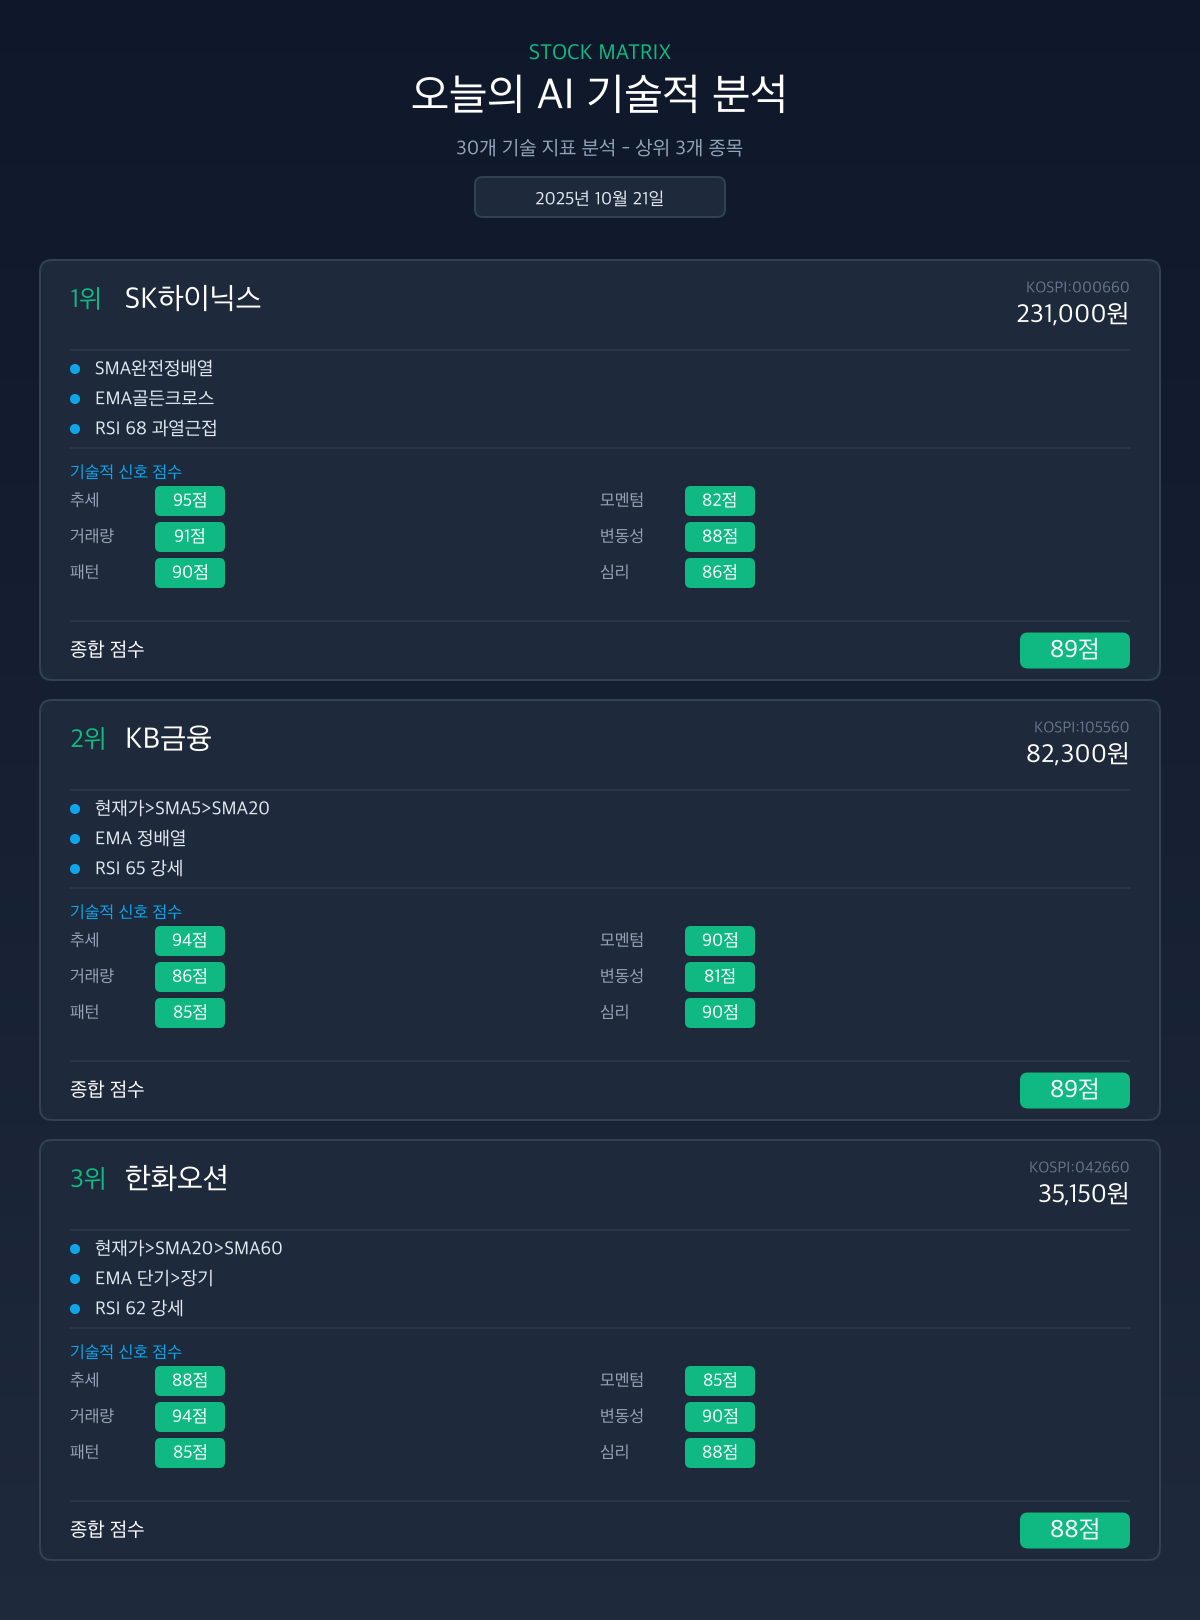
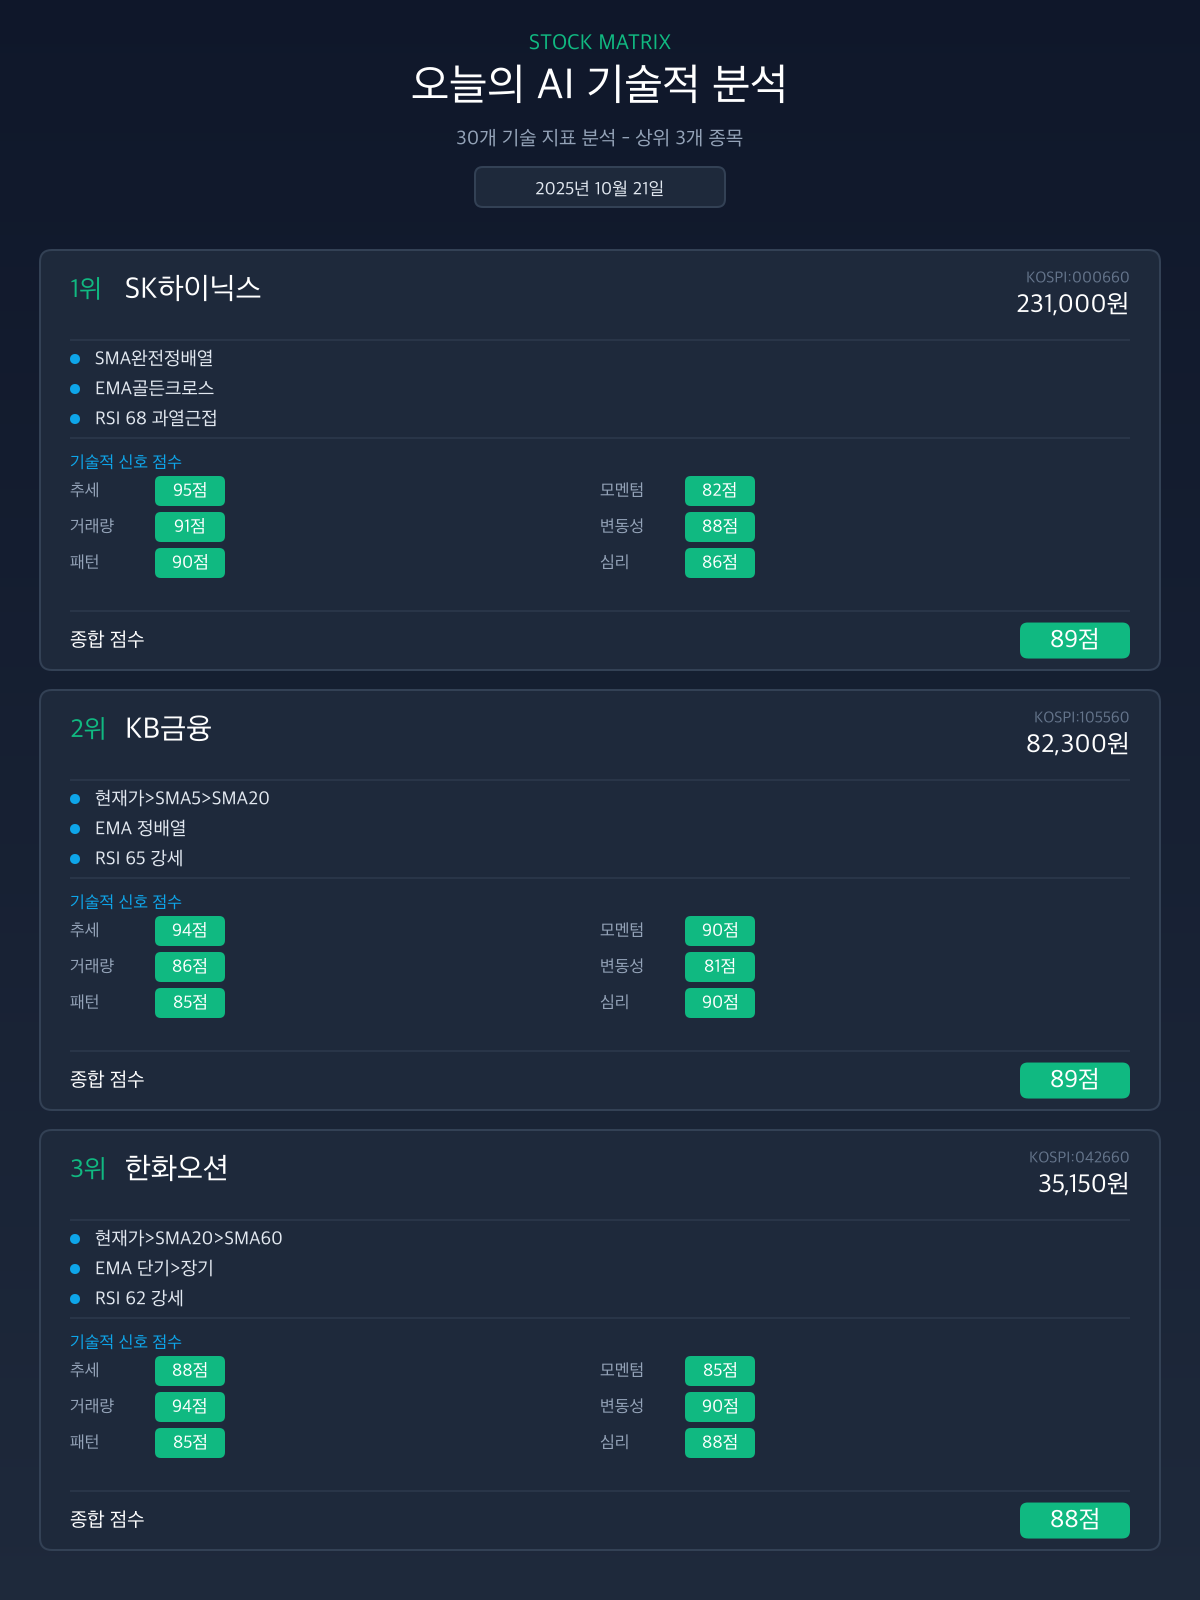
여백 수정

diff --git a/lib/text-to-image.ts b/lib/text-to-image.ts
@@ -45,7 +45,7 @@ export async function textToImage(jsonData: string): Promise<Buffer> {
   // 캔버스 크기 - 고정 높이로 레이아웃 시프트 제거
   const width = 1200;
   const cardHeight = 420; // 각 종목 카드 고정 높이 (450 → 420)
-  const margin = 40; // 상하단 여백 통일
+  const margin = 30; // 상하단 여백 통일 (40 → 30)
   const headerHeight = 200;
   const spacing = 20;
   const height = margin + headerHeight + (cardHeight + spacing) * 3 + spacing + margin;
